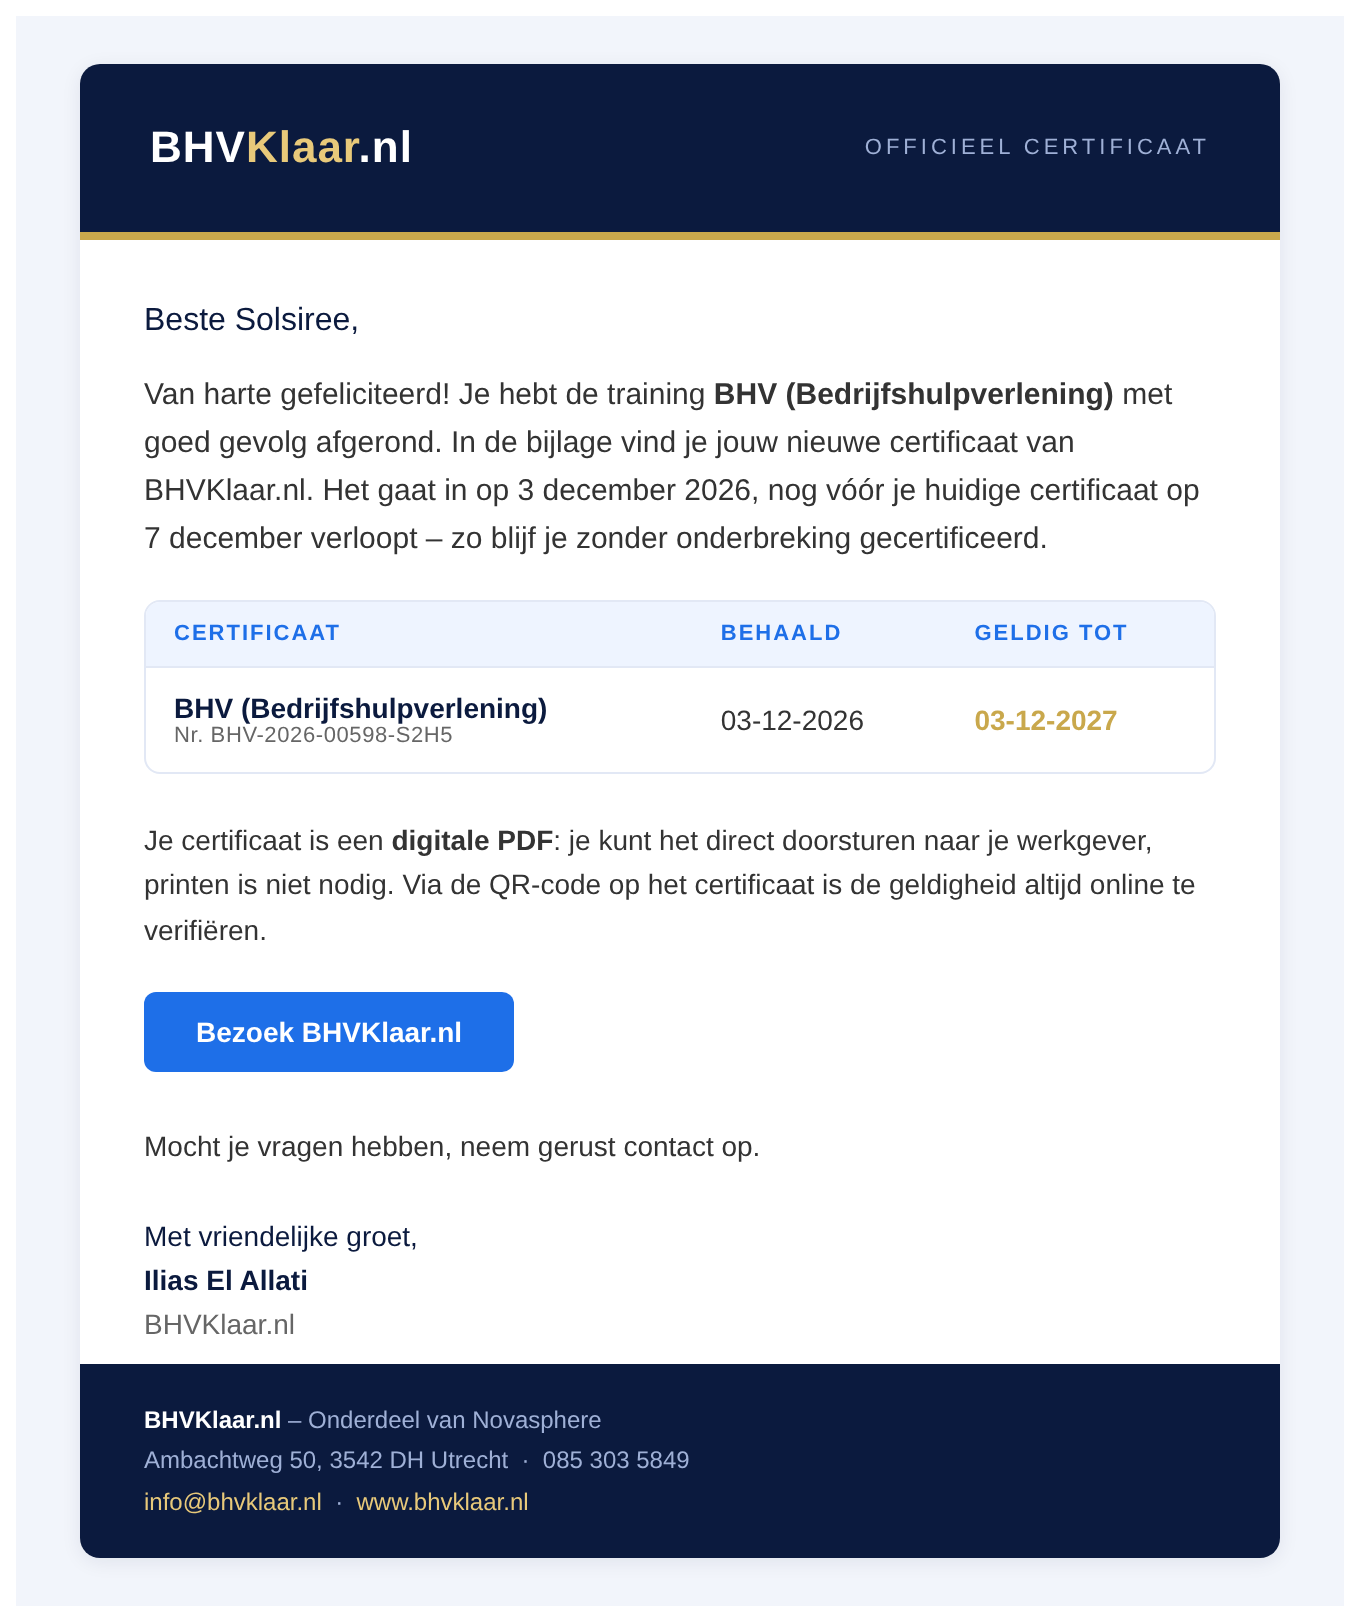
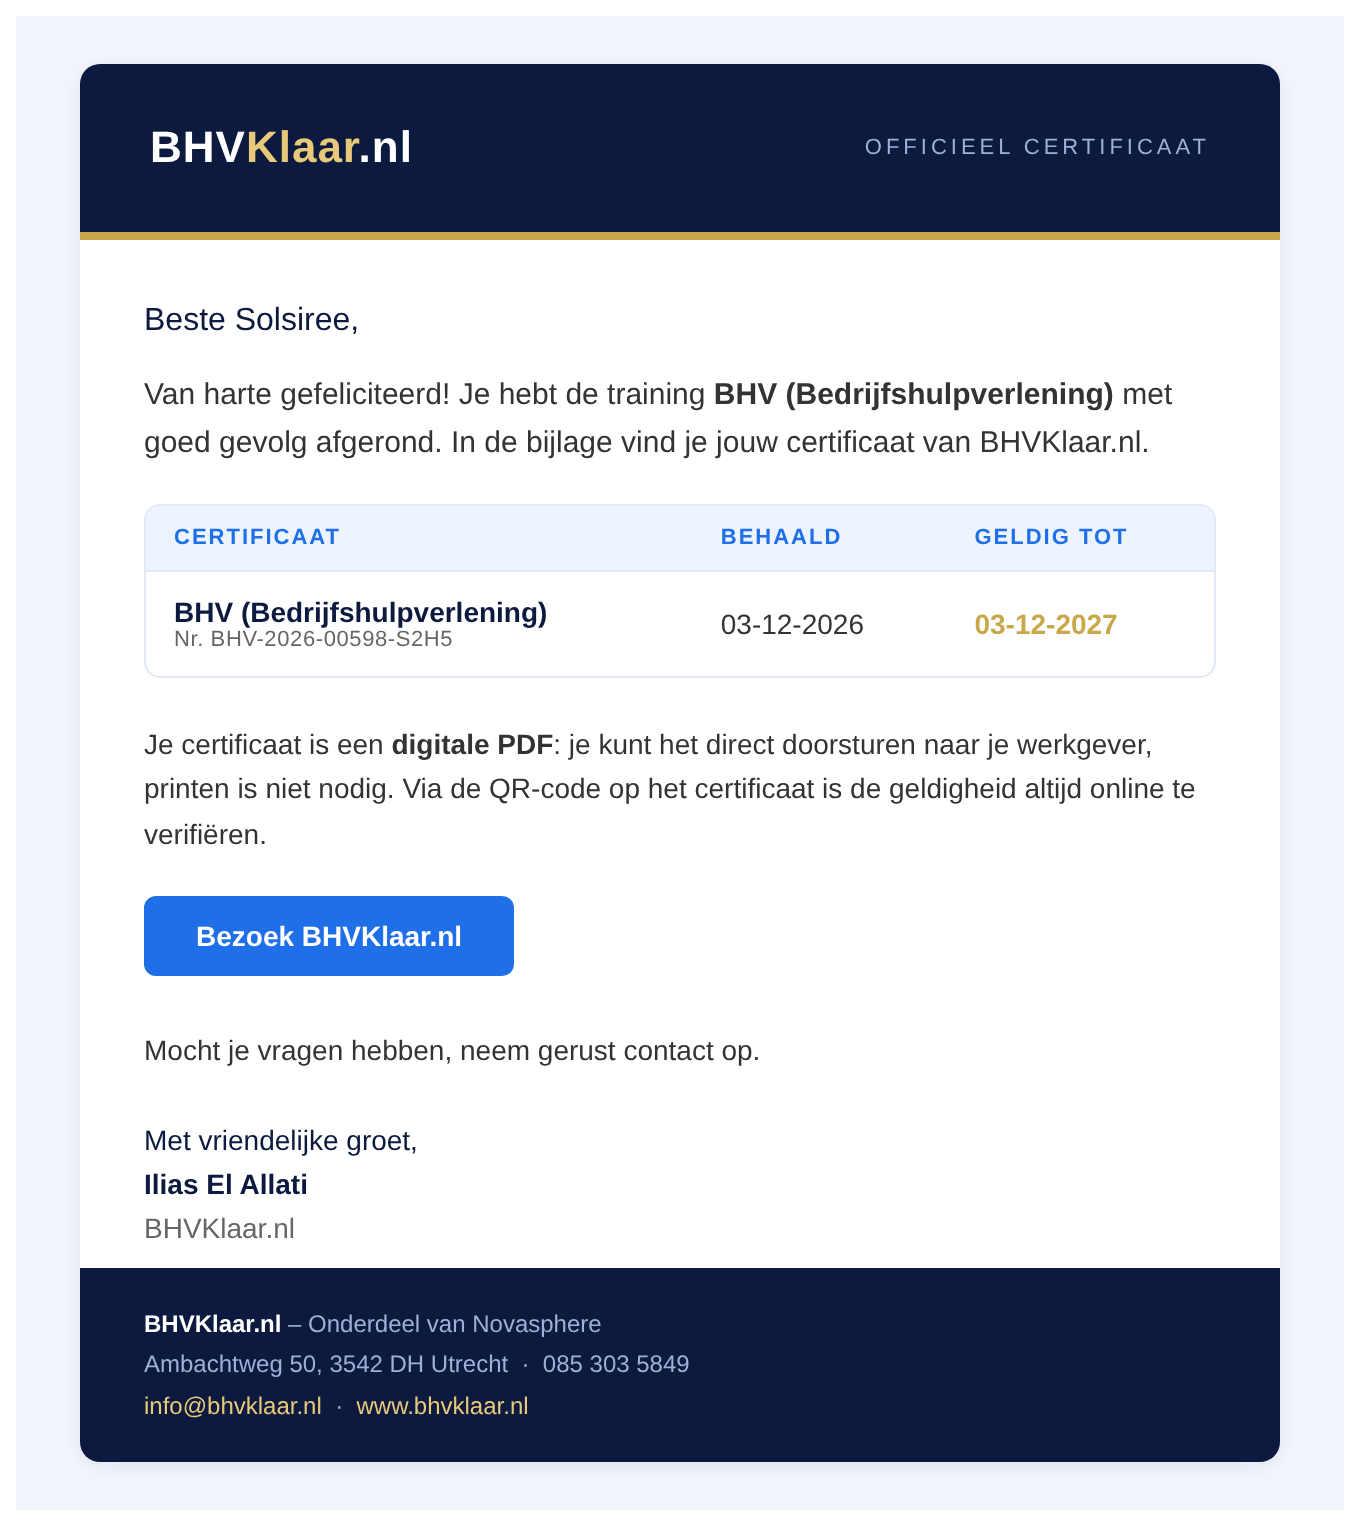
E-mails Solsiree: zin over verlopen oude certificaten verwijderd
Alleen nog 'In de bijlage vind je jouw certificaat'; previews bijgewerkt.

Claude-Session: https://claude.ai/code/session_01VtBHuPZSfaugXkadKESxeL

Changed region(s): [[0.0618, 0.0616, 0.9574, 0.9548], [0.7721, 0.0616, 0.8029, 0.0924]]

diff --git a/email-certificaat-solsiree-abdul-hamid-bhv.html b/email-certificaat-solsiree-abdul-hamid-bhv.html
@@ -16,8 +16,7 @@
     <p style="font-size:16px;margin:0 0 16px 0;">Beste Solsiree,</p>
     <p style="font-size:15px;line-height:1.6;margin:0 0 18px 0;color:#333;">
       Van harte gefeliciteerd! Je hebt de training <strong>BHV (Bedrijfshulpverlening)</strong> met goed gevolg afgerond.
-      In de bijlage vind je jouw nieuwe certificaat van BHVKlaar.nl. Het gaat in op 3 december 2026, nog v&oacute;&oacute;r
-      je huidige certificaat op 7 december verloopt &ndash; zo blijf je zonder onderbreking gecertificeerd.
+      In de bijlage vind je jouw certificaat van BHVKlaar.nl.
     </p>
 
     <table role="presentation" width="100%" cellpadding="0" cellspacing="0" style="width:100%;border:1px solid #e2e8f5;border-radius:8px;overflow:hidden;margin:8px 0 22px 0;">

diff --git a/email-certificaat-solsiree-abdul-hamid-weerbaarheid.html b/email-certificaat-solsiree-abdul-hamid-weerbaarheid.html
@@ -16,8 +16,7 @@
     <p style="font-size:16px;margin:0 0 16px 0;">Beste Solsiree,</p>
     <p style="font-size:15px;line-height:1.6;margin:0 0 18px 0;color:#333;">
       Van harte gefeliciteerd! Je hebt de training <strong>Professionele Weerbaarheid</strong> met goed gevolg afgerond.
-      In de bijlage vind je jouw nieuwe certificaat van BHVKlaar.nl. Het gaat in op 3 december 2026, nog v&oacute;&oacute;r
-      je huidige certificaat op 7 december verloopt &ndash; zo blijf je zonder onderbreking gecertificeerd.
+      In de bijlage vind je jouw certificaat van BHVKlaar.nl.
     </p>
 
     <table role="presentation" width="100%" cellpadding="0" cellspacing="0" style="width:100%;border:1px solid #e2e8f5;border-radius:8px;overflow:hidden;margin:8px 0 22px 0;">
